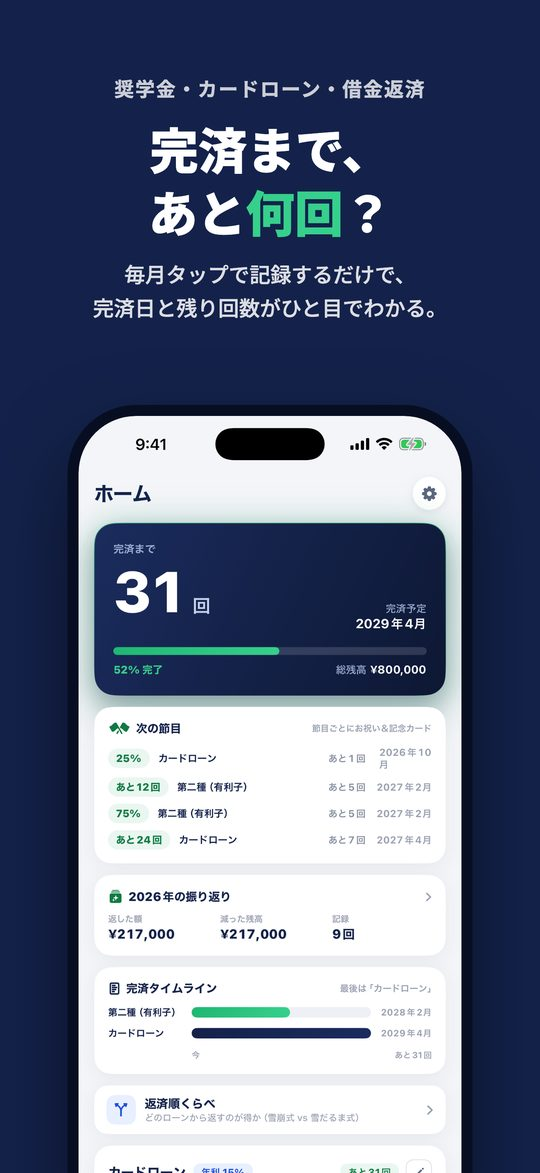
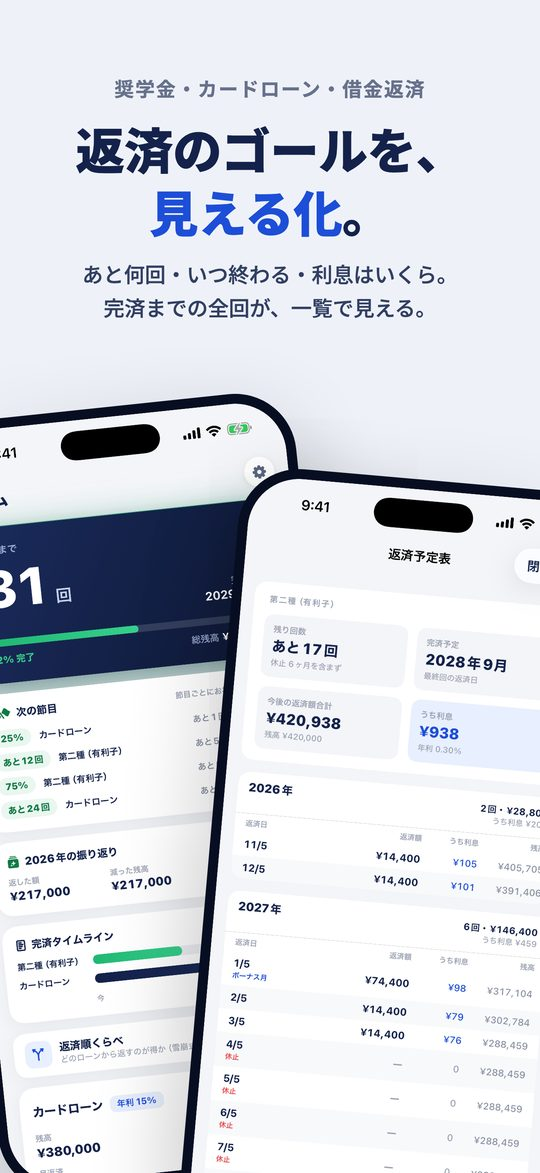
lp: 完済ノート 1.6.0 の機能追加を反映（一時停止・減額／残高照合／予定表／アプリロック）

diff --git a/kansainote/index.html b/kansainote/index.html
@@ -124,6 +124,7 @@ footer .notice{font-size:11.5px;margin-top:10px}
 <figure class="shot"><img src="img/ss-07.jpg" alt="完済ノート の画面 7" loading="lazy" width="540"></figure>
 <figure class="shot"><img src="img/ss-08.jpg" alt="完済ノート の画面 8" loading="lazy" width="540"></figure>
 <figure class="shot"><img src="img/ss-09.jpg" alt="完済ノート の画面 9" loading="lazy" width="540"></figure>
+<figure class="shot"><img src="img/ss-10.jpg" alt="完済ノート の画面 10" loading="lazy" width="540"></figure>
   </div>
 </div></section>
 
@@ -145,9 +146,17 @@ footer .notice{font-size:11.5px;margin-top:10px}
 <p>次回の返済のうち利息はいくらか、これまでに払った利息の目安はいくらか。ローンカードにそのまま表示します。</p>
 <h3>ホーム画面ウィジェット</h3>
 <p>「完済まであと◯回」と次回返済日を、アプリを開かずにホーム画面で。</p>
+<h3>返済の一時停止・減額にも対応</h3>
+<p>返還期限猶予や減額返還、返済猶予の期間を月単位で登録できます。休止中は残り回数に数えず、完済予定・予定表・通知にそのまま織り込みます。</p>
+<h3>残高を明細に合わせる</h3>
+<p>利息の付き方や端数処理の違いでアプリの残高が明細とズレたら、「残高を合わせる」で明細の残高を入力。差額は補正として履歴に残り、あとで取り消せます。</p>
+<h3>Face ID／パスコードでロック</h3>
+<p>借入額を人に見せたくないときは、アプリロックをオンに。開くときに Face ID（Touch ID）か端末のパスコードを求めます。</p>
 <h3>返済リマインド</h3>
-<p>毎月の返済日に、記録のお知らせを受け取れます（任意）。</p>
+<p>毎月の返済日に、記録のお知らせを受け取れます（任意）。休止期間中は鳴りません。</p>
 <h2>PRO（買い切り）で解放</h2>
+<h3>返済予定表</h3>
+<p>完済までの全回を、返済日・返済額・うち利息・残高の一覧に。年ごとの合計も出るので、「来年はいくら払って、いくらが利息か」がひと目でわかります。</p>
 <h3>次の節目ロードマップ</h3>
 <p>「あと12回」「50%」「完済」がいつ来るかを、ホームで見渡せます。</p>
 <h3>年間振り返りカード</h3>
@@ -165,7 +174,7 @@ footer .notice{font-size:11.5px;margin-top:10px}
 <h2>あなたのプライバシー</h2>
 <p>入力した金額・記録は、すべてこの端末の中だけに保存されます。どこにも送信されません。アカウント登録もログインも不要です。</p>
 <h2>料金</h2>
-<p>残高・完済カウントダウン・毎月の記録・節目のお祝い・利息の表示・ウィジェットは無料。買い切りで、ロードマップ・年間振り返り・記念カード・繰上シミュ・年利見直し・利息グラフ・返済順くらべ・タイムライン・ウィジェットのローン切替を解放できます。サブスクではありません。</p>
+<p>残高・完済カウントダウン・毎月の記録・節目のお祝い・利息の表示・一時停止/減額・残高の照合・アプリロック・ウィジェットは無料。買い切りで、返済予定表・ロードマップ・年間振り返り・記念カード・繰上シミュ・年利見直し・利息グラフ・返済順くらべ・タイムライン・ウィジェットのローン切替を解放できます。サブスクではありません。</p>
 <p class="note">※ 本アプリは入力値に基づく目安を表示します。正確な残高・利率・返済方式は貸し手（日本学生支援機構、各金融機関など）の公式情報でご確認ください。本アプリは特定機関とは関係ありません。</p>
   </div>
 </div></section>
